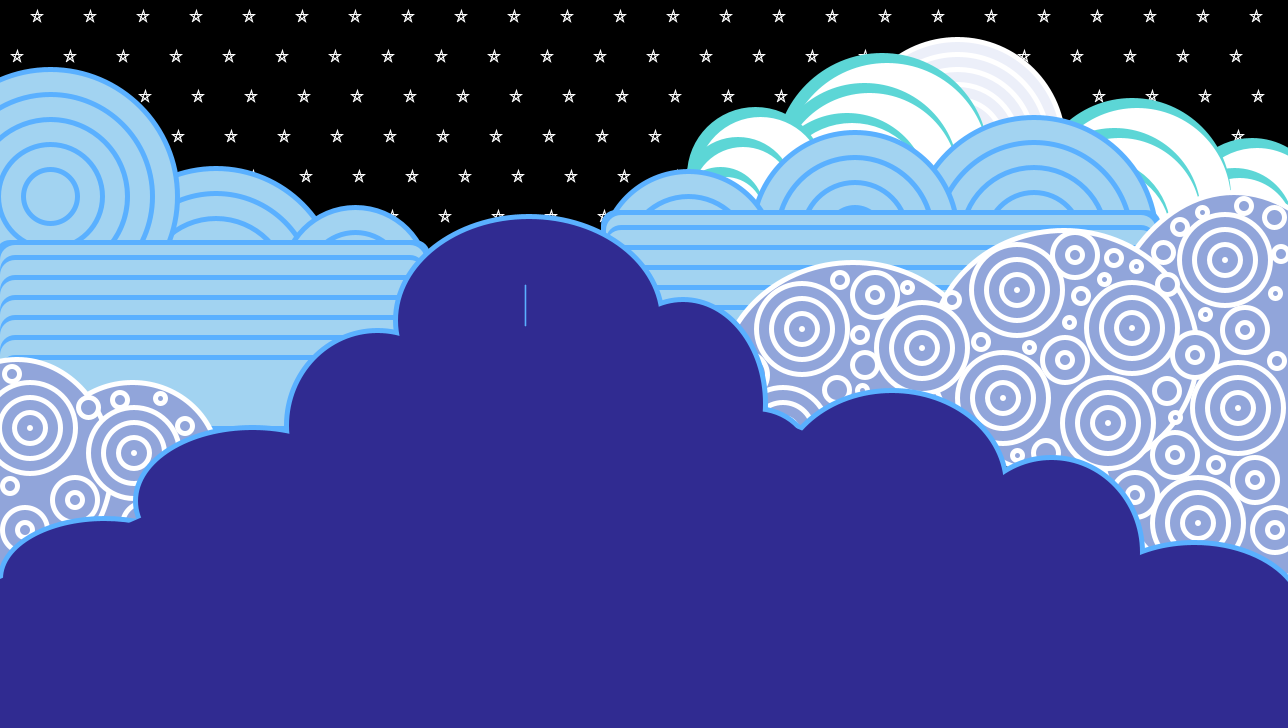
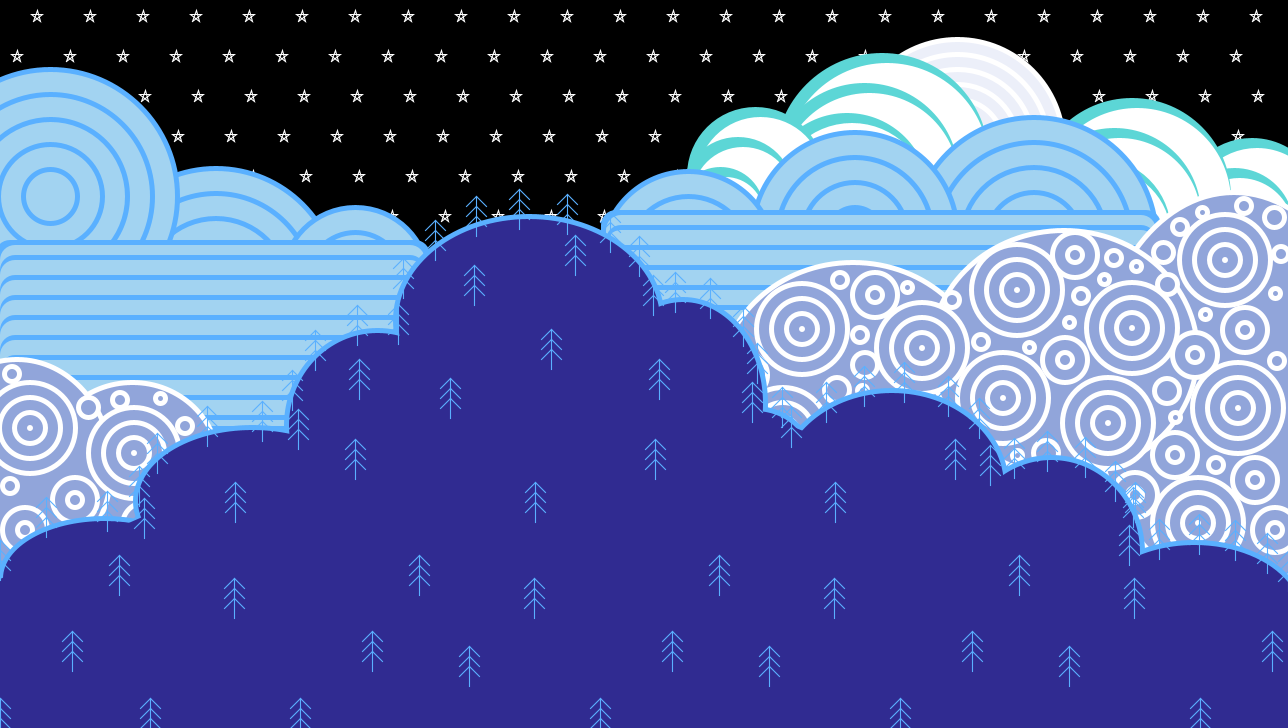
finished project

diff --git a/Main.java b/Main.java
@@ -5,14 +5,7 @@
  * Mountain with clouds and starry night sky
  */
 
- /** TODO */
- /* add comments where necessary
-  * use for loops for repeating items like the circles for the swirl clouds
-  */
-
-import java.awt.Color;
-import java.awt.Graphics;
-import java.util.Arrays;
+import java.awt.*;
 
 public class Main {
 
@@ -33,7 +26,7 @@ public class Main {
     Color lightLavender = new Color(236, 239, 249);
 
     // Draw layers
-    drawStars(g, white);
+    drawStars(g, white);   
     drawStripedCloud(g, lightLavender, white);
     drawDottedClouds(g, white, teal);
     drawLineClouds(g, lightBlue, medBlue);
@@ -94,7 +87,7 @@ public class Main {
     
     /** end of drawStars method **/
   }
-
+  
   public static void drawStripedCloud(Graphics g, Color background, Color lines) {
     // starting coordinates and size    
     int x = 849;
@@ -288,8 +281,8 @@ public class Main {
     g.setColor(background);
     g.fillRoundRect(x, y, width, height, arcWidth, arcHeight);
 
-    // creates 6 more stripes for the rectangle
-    for (int i = 0; i < 6; i++) {
+    // creates 9 more stripes for the rectangle
+    for (int i = 0; i < 9; i++) {
       y += 10;
       g.setColor(lines);
       g.fillRoundRect(x, y, width, height, arcWidth, arcHeight);
@@ -520,42 +513,35 @@ public class Main {
 
   public static void drawTrees(Graphics g, Color main) {
     g.setColor(main);
-    int x = 525;
-    int y = 285;
-    int[][] Points = calculateNextTreePlacement(x, y);
-    System.out.println(Arrays.deepToString(Points));
-    int[] x1Points = Points[0];
-    int[] y1Points = Points[1];
-    int[] x2Points = Points[2];
-    int[] y2Points = Points[3];
+    int[] x = {0, 46, 107, 144, 139, 157, 207, 262, 298, 292, 315, 357, 398, 403, 435, 476, 
+        519, 567, 610, 639, 653, 675, 710, 743, 757, 752, 782, 791, 826, 864, 904, 948, 979,
+        990, 1014, 1047, 1085, 1115, 1133, 1129, 1159, 1199, 1235, 1267, 1288, 0, 150, 300,
+        600, 900, 1200, 72, 372, 672, 972, 1272, 119, 419, 719, 1019, 235, 535, 835, 1135,
+        234, 534, 834, 1134, 355, 655, 955, 469, 769, 1069, 359, 659, 450, 551, 474, 575};
+    int[] y = {540, 497, 491, 498, 466, 433, 406, 401, 409, 370, 330, 305, 304, 258, 220, 196,
+        189, 194, 212, 236, 275, 272, 278, 306, 343, 382, 387, 407, 382, 366, 362, 376, 398,
+        445, 438, 431, 437, 461, 487, 525, 519, 514, 520, 533, 551, 698, 698, 698, 
+        698, 698, 698, 631, 631, 631, 631, 631, 555, 555, 555, 555, 482, 482, 482, 482,
+        578, 578, 578, 578, 439, 439, 439, 646, 646, 646, 359, 359, 378, 329, 265, 235};
+
+    int[][] Points = new int[4][7];
     
-    for (int i = 0; i < x1Points.length; i++) {
-      int x1 = x1Points[i];
-      int y1 = y1Points[i];
-      int x2 = x2Points[i];
-      int y2 = y2Points[i];
-      g.drawLine(x1, y1, x2, y2);
+    for (int i = 0; i < x.length; i++) {
+      Points = calculateNextTreePlacement(x[i], y[i]);
+      int[] x1Points = Points[0];
+      int[] y1Points = Points[1];
+      int[] x2Points = Points[2];
+      int[] y2Points = Points[3];
+      
+      for (int j = 0; j < x1Points.length; j++) {
+        int x1 = x1Points[j];
+        int y1 = y1Points[j];
+        int x2 = x2Points[j];
+        int y2 = y2Points[j];
+        g.drawLine(x1, y1, x2, y2);
+      }
     }
 
-    /*
-     {525, 525, 525, 525, 525, 525, 525}; // tree trunk
-     {285, 285, 285, 295, 295, 305, 305}; // starting point of branches
-     {525, 515, 535, 515, 535, 515, 535}; // x-axis end of branches
-     {325, 295, 295, 305, 305, 315, 315}; // y-axis end of branches    */
-
-    
-    // coordinate starting point for next tree
-    /*x = 0;
-    y = 580;
-    
-    calculateNextTreePlacement(x, y);
-    for (int i = 0; i < Points[0].length; i++) {
-      int x1 = x1Points[i];
-      int y1 = y1Points[i];
-      int x2 = x2Points[i];
-      int y2 = y2Points[i];
-      g.drawLine(x1, y1, x2, y2);
-    }*/
     /** end of drawTrees method **/
   }
   
@@ -564,22 +550,22 @@ public class Main {
 
     for (int i = 0; i < Points.length; i++) {
       // fills values for x1Points
-      if (Points[i] = [0]) {
-        for (int j = 0; j < Points[0].length; j++) {
-          Points[0][j] = x;
+      if (i == 0) {
+        for (int j = 0; j < Points[i].length; j++) {
+          Points[i][j] = x;
         }  
       }
       
       // fills values for y1Points
       if (i == 1) {
         for (int j = 0; j < Points[i].length; j++) {
-          if (Points[i][j] == 0 || Points[i][j] == 1 || Points[i][j] == 2) {
+          if (j == 0 || j == 1 || j == 2) {
             Points[i][j] = y;
           }
-          else if (Points[i][j] == 3 ||Points[i][j] == 4) {
+          else if (j == 3 ||j == 4) {
             Points[i][j] = y + 10;
           }
-          else if (Points[i][j] == 5 || Points[i][j] == 6) {
+          else if (j == 5 || j == 6) {
             Points[i][j] = y + 20;
           }
         }
@@ -588,14 +574,14 @@ public class Main {
       // fills values for x2Points
       if (i == 2) {
         for (int j = 0; j < Points[2].length; j++) {
-          if (Points[2][j] == 0) {
-            Points[2][j] = x;
+          if (j == 0) {
+            Points[i][j] = x;
           }
-          else if (Points[2][j] % 2 != 0) {
-            Points[2][j] = x -10;
+          else if (j % 2 != 0) {
+            Points[i][j] = x -10;
           }
-          else if (Points[2][j] % 2 == 0) {
-            Points[2][j] = x + 10;
+          else if (j % 2 == 0) {
+            Points[i][j] = x + 10;
           }
         }
       }
@@ -603,15 +589,21 @@ public class Main {
       // fills values for y2Points
       if (i == 3) {
         for (int j = 0; j < Points[3].length; j++) {
-          if (Points[3][j] == 0) {
-            Points[3][j] = y + 40;
+          if (j == 0) {
+            Points[i][j] = y + 40;
           }
-          else
-            Points[3][j] = y + 10;
+          else if (j == 1 || j == 2) {
+            Points[i][j] = y + 10;
+          }
+          else if (j == 3 || j == 4) {
+            Points[i][j] = y + 20;
+          }
+          else if (j == 5 || j == 6) {
+            Points[i][j] = y + 30;
           }
         }
+      }
     }
-
     return Points;
     
     /** end of calculateNextTreePlacement method **/
